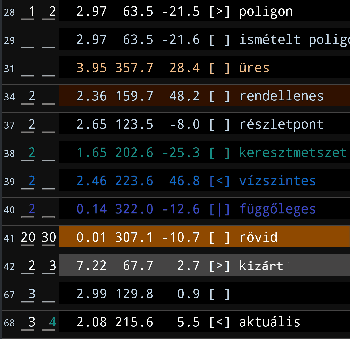
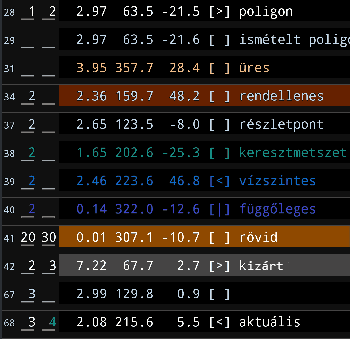
6 4 71

Changed region(s): [[0.1714, 0.236, 1.0, 0.3245]]

diff --git a/man/manual06.htm b/man/manual06.htm
@@ -55,6 +55,7 @@ A pontnevek háttérszíne:
 <li>[sötétzöld] legutóbb letöltött mérések</li>
 <li>[szürke] mérés "többmérés" választás készletben</li>
 <li>[sötét sárga] DistoX fordított mérés adatok</li>
+<li>[lila] visszamérő-ellenőrzés sün (hiba esetén)</li>
 </ul><p>
 
 <img src = "shots_list.png" alt = "mérések listája" /><p>
@@ -125,7 +126,7 @@ Ha a 3D modellezés engedélyezve van, akkor egy gomb is létrehozhat egy új 3D
 <h4>MENÜK</h4>
 <ul style = "margin-top: 0">
 <li><u>Felmérési információk</u>: felmérési információs ablak</li>
-<li><u>Helyreállítás</u>: törölt elem (mérés vagy vázlat) <a href="page_undelete.htm"> helyreállítása</a></li>
+<li><u>Visszaállítás | beillesztés</u>: törölt elem (mérés vagy vázlat) <a href="page_undelete.htm">helyreállítás</a>, vagy méréspuffer beillesztése [N]/[E]</li>
 <li><u>Fotó</u>: ehhez a felméréshez készített képek</li>
 <li><u>Hang</u>: ehhez a felméréshez felvett hang jegyzetek</li>
 <li><u>3D</u>: 3D felmérés megjelenítése (<a href="manual15.htm"> 3D megjelenítővel</a>)</li>
@@ -133,6 +134,9 @@ Ha a 3D modellezés engedélyezve van, akkor egy gomb is létrehozhat egy új 3D
 <li><u>Beállítások</u></li>
 <li><u>Súgó</u></li>
 </ul><br><p>
+
+Egy rövid koppintással a <u>Visszaállítás/beillesztés</u> menü megnyitja a <a href="page_undelete.htm"><i>Visszaállítás párbeszédpanelt</i></a>.
+Egy hosszú koppintással megnyílik a <a href="page_shot_paste.htm"><i>Mérés beillesztése párbeszédpanel</i></a>.<br><p>
 
 <h4> FELMÉRÉS BEÁLLÍTÁSAI</h4>
 <ul style = "margin-top: 0">
@@ -157,7 +161,7 @@ Ha a 3D modellezés engedélyezve van, akkor egy gomb is létrehozhat egy új 3D
     <li><i>Poligon tűrés</i>: a poligon egymás utáni mérései közötti szögtűrés (százalék) [alapértelmezett 0,05, min 0]. A hossztűrés a szögtűrés és a hossz szorzata.</li>
     <li><i>Maximális méréshossz</i>: a hosszabb méréseket "túlmérés" és "törölt" jelzéssel látja el [alapértelmezett 50 m, min 20 m]</li>
     <li><i>Min. poligonhossz</i>: a rövidebb poligonnak narancssárga háttérrel vannak kiemelve [alapértelmezett 0 m]</li>
-    <li><i>Min. poligonmérések</i>: a legközelebbi egymás utáni mérések minimális száma egy poligonon. [alapértelmezett 3, min 2, max 4] [S]</li>
+    <li><i>Poligonmérések száma</i>: egymás utáni mérések minimális száma egy pontra amit poligon mérésnek tekint. [alapértelmezett 3, min 2, max 4] [S]</li>
     <li><i>A mérések függőleges küszöbe</i>: a referencia azimutra merőleges körüli tartománya ahhoz, hogy a <a href="page_azimuth.htm">mérés "kiterítése"</a> függőleges legyen [ alapértelmezett 10, min 0, max 90] (poligonokhoz és sünökhöz egyaránt használatos) [N]</li>
     <li><i>Mérés NyKÉD küszöbérték</i> (<i>Therion</i> "vthresold"): a manuálisan bevitt mérések BJFL-jét nyugat-kelet-észak-délnek tekintjük, ha a mérés dőlése meghaladja a függőleges küszöböt [alapértelmezett 80, min 0, max 90]</li>
     <li><i>Mérés kiterítése</i>: kézi J/B vagy a <a href="page_azimuth.htm"> kiterítési referencia</a> irány [alapértelmezett relatív]</li>
@@ -165,11 +169,15 @@ Ha a 3D modellezés engedélyezve van, akkor egy gomb is létrehozhat egy új 3D
     <li>az <i>előző / következő</i> gombok megjelenítése a mérés szerkesztése párbeszédpanelen [alapértelmezett igen]</li>
     <li><i>Visszamérés</i> mezők a mérés kézi beviteli párbeszédablakában [N] [alapértelmezett nem]</li>
 	<li><i>Poligon-mérés-visszajelzés</i>: visszajelzés a poligon-felismerésről: "nincs", "hang" vagy "érintős" [alapértelmezett "nincs"] [N]</li>
-    <li><i>Fordított mérés DistoX</i>: DistoX "fordított mérés" módban [alapértelmezett nem] [N]</li>
-	<li><i>Hurokzárás</i> hibakompenzáció. Javasoljuk, hogy a kompenzációt ne végezze el, mert így grafikusan láthatja a hibás lezárásokat, és kiszűrheti az esetleges felmérési hibákat [alapértelmezett "nincs"] [N]</li>
-<li><i>Időzítő</i>: a késleltetés száma másodpercben az irányok mérése előtt az Android érzékelőkkel [alapértelmezett 10, min. 0] [E]</li>
-<li><i>Sípolás hangereje</i>: sípolás hangereje a manuális mérésidőzítőhöz és a poligon mérés visszajelzéséhez [alapértelmezett 50, min. 10, max. 100%] [E]</li>
-<li><i>Sípolás hossza</i>: sípolás időtartama a poligon mérés visszajelzéséhez [alapértelmezett 500 ms] [E]</li>   </ul>
+    <li><i>További beállítások</i>
+      <ul style="margin-top:0; margin-bottom:0">
+	    <li><i>Fordított mérés DistoX</i>: DistoX "fordított mérés" módban [alapértelmezett nem] [N]</li>
+	    <li><i>Hurokzárás</i> hibakompenzáció. Javasoljuk, hogy a kompenzációt ne végezze el, mert így grafikusan láthatja a hibás lezárásokat, és kiszűrheti az esetleges felmérési hibákat [alapértelmezett "nincs"] [N]</li>
+        <li><i>Időzítő</i>: a késleltetés száma másodpercben az irányok mérése előtt az Android érzékelőkkel [alapértelmezett 10, min. 0] [E]</li>
+        <li><i>Sípolás hangereje</i>: sípolás hangereje a manuális mérésidőzítőhöz és a poligon mérés visszajelzéséhez [alapértelmezett 50, min. 10, max. 100%] [E]</li>
+        <li><i>Sípolás hossza</i>: sípolás időtartama a poligon mérés visszajelzéséhez [alapértelmezett 500 ms] [E]</li>
+	  </ul>
+	</ul>
  </li>
   <li><i>HELY <a href="page_fixed_list.htm"> beállítások</a></i></li>
   <li><i>PONTOSSÁG <a href="page_accuracy.htm"> beállítások</a></i></li>

diff --git a/man/page_surveys.htm b/man/page_surveys.htm
@@ -1,0 +1,22 @@
+<html><body>
+<h4>Csoportos felmérés műveletek</h4>
+
+Ez a párbeszédpanel a <i>Főablak</i> "CSOPORTOS MŰVELETEK" menüjéből nyitható meg.<br><p>
+
+Lehetővé teszi a csoportos műveletek végrehajtását a kiválasztott méréseken.<br><p>
+
+Az elérhető műveletek:
+<ul>
+<li><i>törlés</i>: mérések törlése. Van egy megerősítő kérdés</li>
+<li><i>exportálás</i>: mérések exportálása. Az exportálási formátum utólag kiválasztható</li>
+<li><i>import</i>: importál minden zip archívumot a mappából</li>
+</ul>
+<br>
+
+Egyéb gombok
+<ul>
+<li><i>be/kikapcsolás</i>: mérések kiválasztásának be-/kikapcsolása</li>
+<li><i>mégsem</i>: párbeszédpanel bezárása</li>
+</ul>
+
+</body></html>

diff --git a/man/page_cavway_info.htm b/man/page_cavway_info.htm
@@ -1,0 +1,19 @@
+<html><body>
+<h4>Cavway INFO</h4>
+
+Ez a párbeszédpanel a <u>Műszer ablak</u> <i>Info</i> gombjával nyitható meg,
+ha az aktuális műszer egy Cavway.<br><p>
+
+A <i>Cavway</i> információs párbeszédpanel a következőket mutatja:
+<ul>
+<li>MAC-cím</li>
+<li>firmware verzió</li>
+<li>hardver verzió</li>
+<li>hogy a Cavway ideje szinkronizálva van-e az Androiddal</i>
+<li>kalibrációs információk (dátum és hibastatisztikák)</li>
+</ul>
+
+Van egy gomb is, amellyel a <i>Cavway</i> ideje szinkronizálható az Android idejével.
+<br><p>
+
+</body></html>

diff --git a/man/manual09.htm b/man/manual09.htm
@@ -14,7 +14,17 @@ A <u>vetített</u> oldalnézet a poligont és a sünöket a vetítési irányra 
 
 <img src = "splay_extend.png"><br><p>
 
-<b>Poligon vonalak</b><br>
+<b>Megjelenítési mód</b><br>
+A <i>megjelenítési mód</i> gombbal (alább) kiválaszthatod milyen referenciák legyenek láthatók a képernyőn:
+<ul>
+<li>poligonok</li>
+<li>sünök</li>
+<li>mérési pont nevek vagy magasságok</li>
+<li>háló</li>
+<li>vonalas lépték</li>
+</ul><br><p>
+
+<b>Poligonok</b><br>
 
 A poligon színek
 <ul>
@@ -29,11 +39,11 @@ A poligon színek
 
 A sünök vonalként vagy pontként jeleníthetők meg [G]. Ha kiválasztási módba vált az ablak mindig vonalként jelenik meg.<br>
 
-A zászlókkal ellátott sünök színei:
+A zászlókkal jelölt sünök színei [csak Cavway]:
 <ul>
 <li>jellemző: sárga</li>
 <li>szegély: lila</li>
-<li>hátsó irányzék: kék</li>
+<li>visszamérés: kék</li>
 <li>általános: zöld</li>
 </ul><br>
 
@@ -121,7 +131,7 @@ A többi gomb különbözik a mód választás szerint.<br><p>
 </li>
 <li><img src = "btn_bluetooth.png" width="36" border="1"> <a href="page_bluetooth.htm">Bluetooth</a> visszaállítás / vezérlés</li>
 <li><img src = "btn_note.png" width="36" border="1"> felmérés <a href="page_survey_notes.htm"> jegyzetek</a></li>
-<li><img src = "btn_mode.png" width="36" border="1"> <a href="page_drawing_refs.htm">referenciák</a> rajzolása: poligonok, sünök, pontok, vázlat rács, skála.</li>
+<li><img src = "btn_mode.png" width="36" border="1"> <a href="page_drawing_refs.htm">referenciák</a> rajzolása: poligonok, sünök, pontszámok/magasság, vázlat rács, skála.</li>
 <li><img src = "btn_plan.png" width="36" border="1"> <i>alaprajz / oldalnézet</i> kapcsoló. <img src = "btn_splay_group.png" width="36" border="1"> <i>Sün-megjelenítés mód</i>, keresztmetszetekhez</li>
 <li><img src = "btn_azimuth.png" width="36" border="1"> <a href="page_azimuth.htm">"kiterítés" hivatkozás</a></li>
 <li><img src = "btn_refresh.png" width="36" border="1"> <i>frissítse</i> a poligont</li>

diff --git a/man/page_displaymode.htm b/man/page_displaymode.htm
@@ -1,18 +1,18 @@
 <html><body>
 
-<h4>MÉRÉSI ADATOK MEGJELENÍTÉSI MÓD</h4>
+<h4>MÉRÉSI ADATOK MEGJELENÍTÉSI MÓDJA</h4>
 
-Ez a párbeszédpanel a felmérés <u>adatablak</u> <i>Referencia</i> gombjával nyílik meg.<br><p>
+Ez a párbeszédpanel a <u>felmérés adatablak</u> <i>Referencia</i> gombjával nyílik meg.<br><p>
 
+Ezen a párbeszédpanelen keresztül a felhasználó elrejthet/megjeleníthet bizonyos felvételi osztályokat:
 <ul>
 <li><b>mérés azonosítója</b></li>
 <li><b>sün</b>: csak egy megnevezett pontja van a mérésnek</li>
-<li><b>üres</b>: nem kapcsolt, mérések pontok nélkül </li>
-<li><b>ismételt poligon</b>: az előző poligont ismétlő mérések</li>
+<li><b>szkennelés</b>: szkennelési készletek</li>
 <li><b>legutóbbi sün</b>: csak akkor érhető el, ha a <i>Másodlagos beállítások &gt; Felmérés adatai &gt; Legutóbbi mérés</i> beállítás engedélyezve van.
 Időkorlátot a <i>Másodlagos beállítások &gt; Felmérés adatai &gt; Legutóbbi adatok időtúllépése</i> beállítás határozza meg (másodpercben).</li>
-<li><b>üres</b>: mérési pont nélküli mérések</li>
-<li><b>ismételt poligon</b>: az előző szakaszhoz közeli felvételek</li>
+<li><b>üres</b>: nem kapcsolt, mérések pontok nélkül</li>
+<li><b>ismételt poligon</b>: az előző poligonhoz közeli mérések</li>
 </ul>
 <br> <p>
 

diff --git a/man/manual_hu.htm b/man/manual_hu.htm
@@ -1,6 +1,6 @@
 <html><body>
 <h3>Kiegészítés a magyar fordításhoz</h3>
-<!-- V20260516 6.4.51 -->
+<!-- V20260516 6.4.64 -->
 <i> [email redacted]</i><br><p>
 
 Mottó:
@@ -8,7 +8,7 @@ Mottó:
 -F.F.K. kszt. Szöveggyűjtemény-<br>
 Minden jog, a félrefordítás joga is fenntartva!<br><p>
  
-A TopoDroid kézikönyv fordítása Marco Corvi eredeti angol verziójának 2026 májusi változatán alapul. Mivel a program (szerencsére vagy bosszúságomra) folyamatosan frissül, és a kézikönyv is módosul, nem biztos, hogy a magyar fordítás lépést tud tartani az eredetivel. Lefordított kézikönyvek nem verzió függőek, ezért a különböző telepített TopoDroid verzióknál nem követik a változást vagy éppen újabb verzióhoz készültek. Probléma esetén nézzétek meg az angol változatot.<br><p>
+A TopoDroid kézikönyv fordítása Marco Corvi eredeti angol verziójának 2026 júniusi változatán alapul. Mivel a program (szerencsére vagy bosszúságomra) folyamatosan frissül, és a kézikönyv is módosul, nem biztos, hogy a magyar fordítás lépést tud tartani az eredetivel. Lefordított kézikönyvek nem verzió függőek, ezért a különböző telepített TopoDroid verzióknál nem követik a változást vagy éppen újabb verzióhoz készültek. Probléma esetén nézzétek meg az angol változatot.<br><p>
 A kézikönyvet nem magamnak fordítom - én az angol változatot használom -, hanem nektek - konkrétan Gema kérte -. Ezért nem is látom meg benne a hibákat. Jelezzétek a hibát a fenti email címen, és kijavítom. Persze nem rögtön, és csak azt amivel egyetértek :-).<br>
 A program nagyon jól fejleszthető, tudtok saját szimbólumkészletet készíteni vagy módosítani.
  Ezeket egyszerű szöveges állományban tárolja a program.
@@ -23,7 +23,7 @@ A jelenlegi munkába besegítettek: Markó Gábor; Vági Domonkos; Németh Tamá
 Szakkifejezések fordítása - jelen esetben a barlangtérképezés szakzsargonja - sokszor problémás: ha van elfogadott magyar szakkifejezés az nem mindig elég rövid, hogy egy program felhasználói felületébe illeszkedjen. Ha nincs, vagy a meglévő nem megfelelő akkor az általam alkotott kifejezés nem biztos, hogy elfogadott lesz. Viszont nem szeretném átvenni az angol szakkifejezéseket, ha tudunk magyar jó szót alkotni (ebben kérem is a segítségeteket). Meg az ellenőrzésben.<br>
 Az egyértelműség kedvéért adok egy szószedetet, ami a szakszavak fordítását magyarázza.<br>
 <br>
-Holl Balázs, Papp Ferenc Bkcs. 2026.5.25<br> 
+Holl Balázs, Papp Ferenc Bkcs. 2026.6.16<br> 
 
 <hr>
 <b>Az eredeti kifejezések:</b><br>

diff --git a/man/manual02.htm b/man/manual02.htm
@@ -33,9 +33,9 @@ A TopoDroid <u>főablakából</u> való kilépéshez kattints duplán a hardver 
 <li><a href="page_symbol_reload.htm"> Paletta</a> [H/T] megnyit egy párbeszédablakot további rajzeszközkészletek betöltéséhez vagy a rajzeszközök újratöltéséhez.</li>
 <!-- li><u>Napló</u> beállítások [S]. A <a href="page_logging.htm"> naplózás</a> többnyire az alkalmazáshibák hibakeresésére szolgál</li>
 <li><u>Mentések törlése</u> törli a vázlatok biztonsági mentéseit [T]</li -->
-<li><u>Exportálás</u> minden felmérés, (csak ha engedélyezve van) [T/G]</li>
+<li><a href="page_surveys.htm">Csoportos műveletek</a>: műveletek mérések egy csoportján (ha engedélyezve van) [T/G].</li>
 <li><u>Névjegy</u>: a program üdvözlő üzenete. Internet kapcsolat esetén ez az ablak ellenőrzi az új verzió elérhetőségét.</li>
-<li><u>Beállítások</u>: az összes programbeállítás</li>
+<li><a href="page_settings.htm">Beállítások</a>: az összes programbeállítás</li>
 <li>A <u>Súgó</u> a gombok és menük rövid leírását mutatja. A jobb felső sarokban található egy gomb, amely megnyitja ezt a felhasználói kézikönyvet. Minden TopoDroid ablak hasonló <u>Súgó</u> menüvel rendelkezik</li>
 </ul><br><p>
 

diff --git a/man/page_shot_edit1.htm b/man/page_shot_edit1.htm
@@ -31,8 +31,8 @@ Tulajdonság gombok:
 <li><img src="btn_leg_after.png" width="36" border="1"> a mérés a közvetlenül megelőző poligonhoz tartozik.</li>
 <li><img src="btn_leg_before.png" width="36" border="1"> a mérés a közvetlenül következő poligonhoz tartozik.</li>
 <li><img src="btn_backleg.png" width="36" border="1"> ez egy fordított mérés („visszamérés poligon” típusúként van megjelölve).</li>
-<li><img src="btn_numbers.png" width="36" border="1"> a kezdőpontok újbóli hozzárendelése ettől a szakasztól kezdve az aktuális állomáselnevezési szabályzat szerint. A KEZDŐ és VÉG pontokat is meg kell adni</li>
-<li><img src="btn_splays_no.png" width="36" border="1"> alkalmazza a pont módosítást a felvétel csoportjában lévő összes sünre.</li>
+<li><img src="btn_numbers.png" width="36" border="1"> a kezdőpontok újbóli hozzárendelése ettől a szakasztól kezdve az aktuális állomáselnevezési szabályzat szerint. Csak poligonokra. A KEZDŐ és VÉG pontokat is meg kell adni</li>
+<li><img src="btn_splays_no.png" width="36" border="1"> alkalmazza a pont módosítást a felvétel csoportjában lévő összes sünre. Csak sünökre.</li>
 <li><img src="btn_plan_profile.png" width="36" border="1"> elrejti a sünöket az alaprajzban, az oldalnézetben, vagy mindkettőben (csak a sünöket) [H]</li>
 <li><img src="btn_xsplay.png" width="36" border="1"> törölje (vagy állítsa be) a sün osztályt, és esetleg az előző sünöket. [H]</li>
 </ul>

diff --git a/man/manual13.htm b/man/manual13.htm
@@ -641,7 +641,7 @@ a „Vonal irány” beállítás engedélyezésével.<br><p>
 <br><p>
 
 Beállítások: <ul style="margin-top=0">
-<li>SVG <u>program</u>: <i>Inkscape</i> vagy <i>Illustrator</i>. Ez befolyásolja az export léptéktényezőjét.</li>
+<li>SVG <u>program</u>: <i>Inkscape</i> vagy <i>Illustrator</i>. Ez befolyásolja az export léptéktényezőjét. [Illustrator]</li>
 <li>Rajz <u>metszet-pont</u>: ha a metszetek automatikusan hozzáadódnak a metszetek vonalához,
 a metszetrajz beillesztésre kerül az exportálásba, a "metszet" pontba</li>
 <li>automatikus <u>poligon-pontok</u>: ha engedélyezve van, akkor az összes pont szerepel az exportálásban,

diff --git a/man/page_station_policy.htm b/man/page_station_policy.htm
@@ -6,7 +6,7 @@ Adatok letöltésekor a TopoDroid automatikusan hozzájuk rendelheti a pontnevek
 <ol>
 <li><b>sün + előremérés</b>. A KEZDŐ ponton: először részletpont méréseket készíted, majd előremérést (poligon) végzed. Ez az alapértelmezett konvenció.</li>
 <li><b>sün + hátramérés</b>. A CÉL ponton: először részletpont méréseket készít, majd hátraméréseket készít</li>
-<li><b>visszaméréses ellenőrzés</b></li>
+<li><b>visszaméréses ellenőrzés</b></li>. A sünök és az előre mérése előtt hátramérést kell végezni.
 <li><b>állvány</b> [H]</li>
 <li><b>mágneses rendellenesség</b> kompenzáció [S]</li>
 <li><b>előremérés + sün</b>. A KEZDŐ ponton: először az előre poligonméréseket készíted, majd a részletpont méréseket</li>